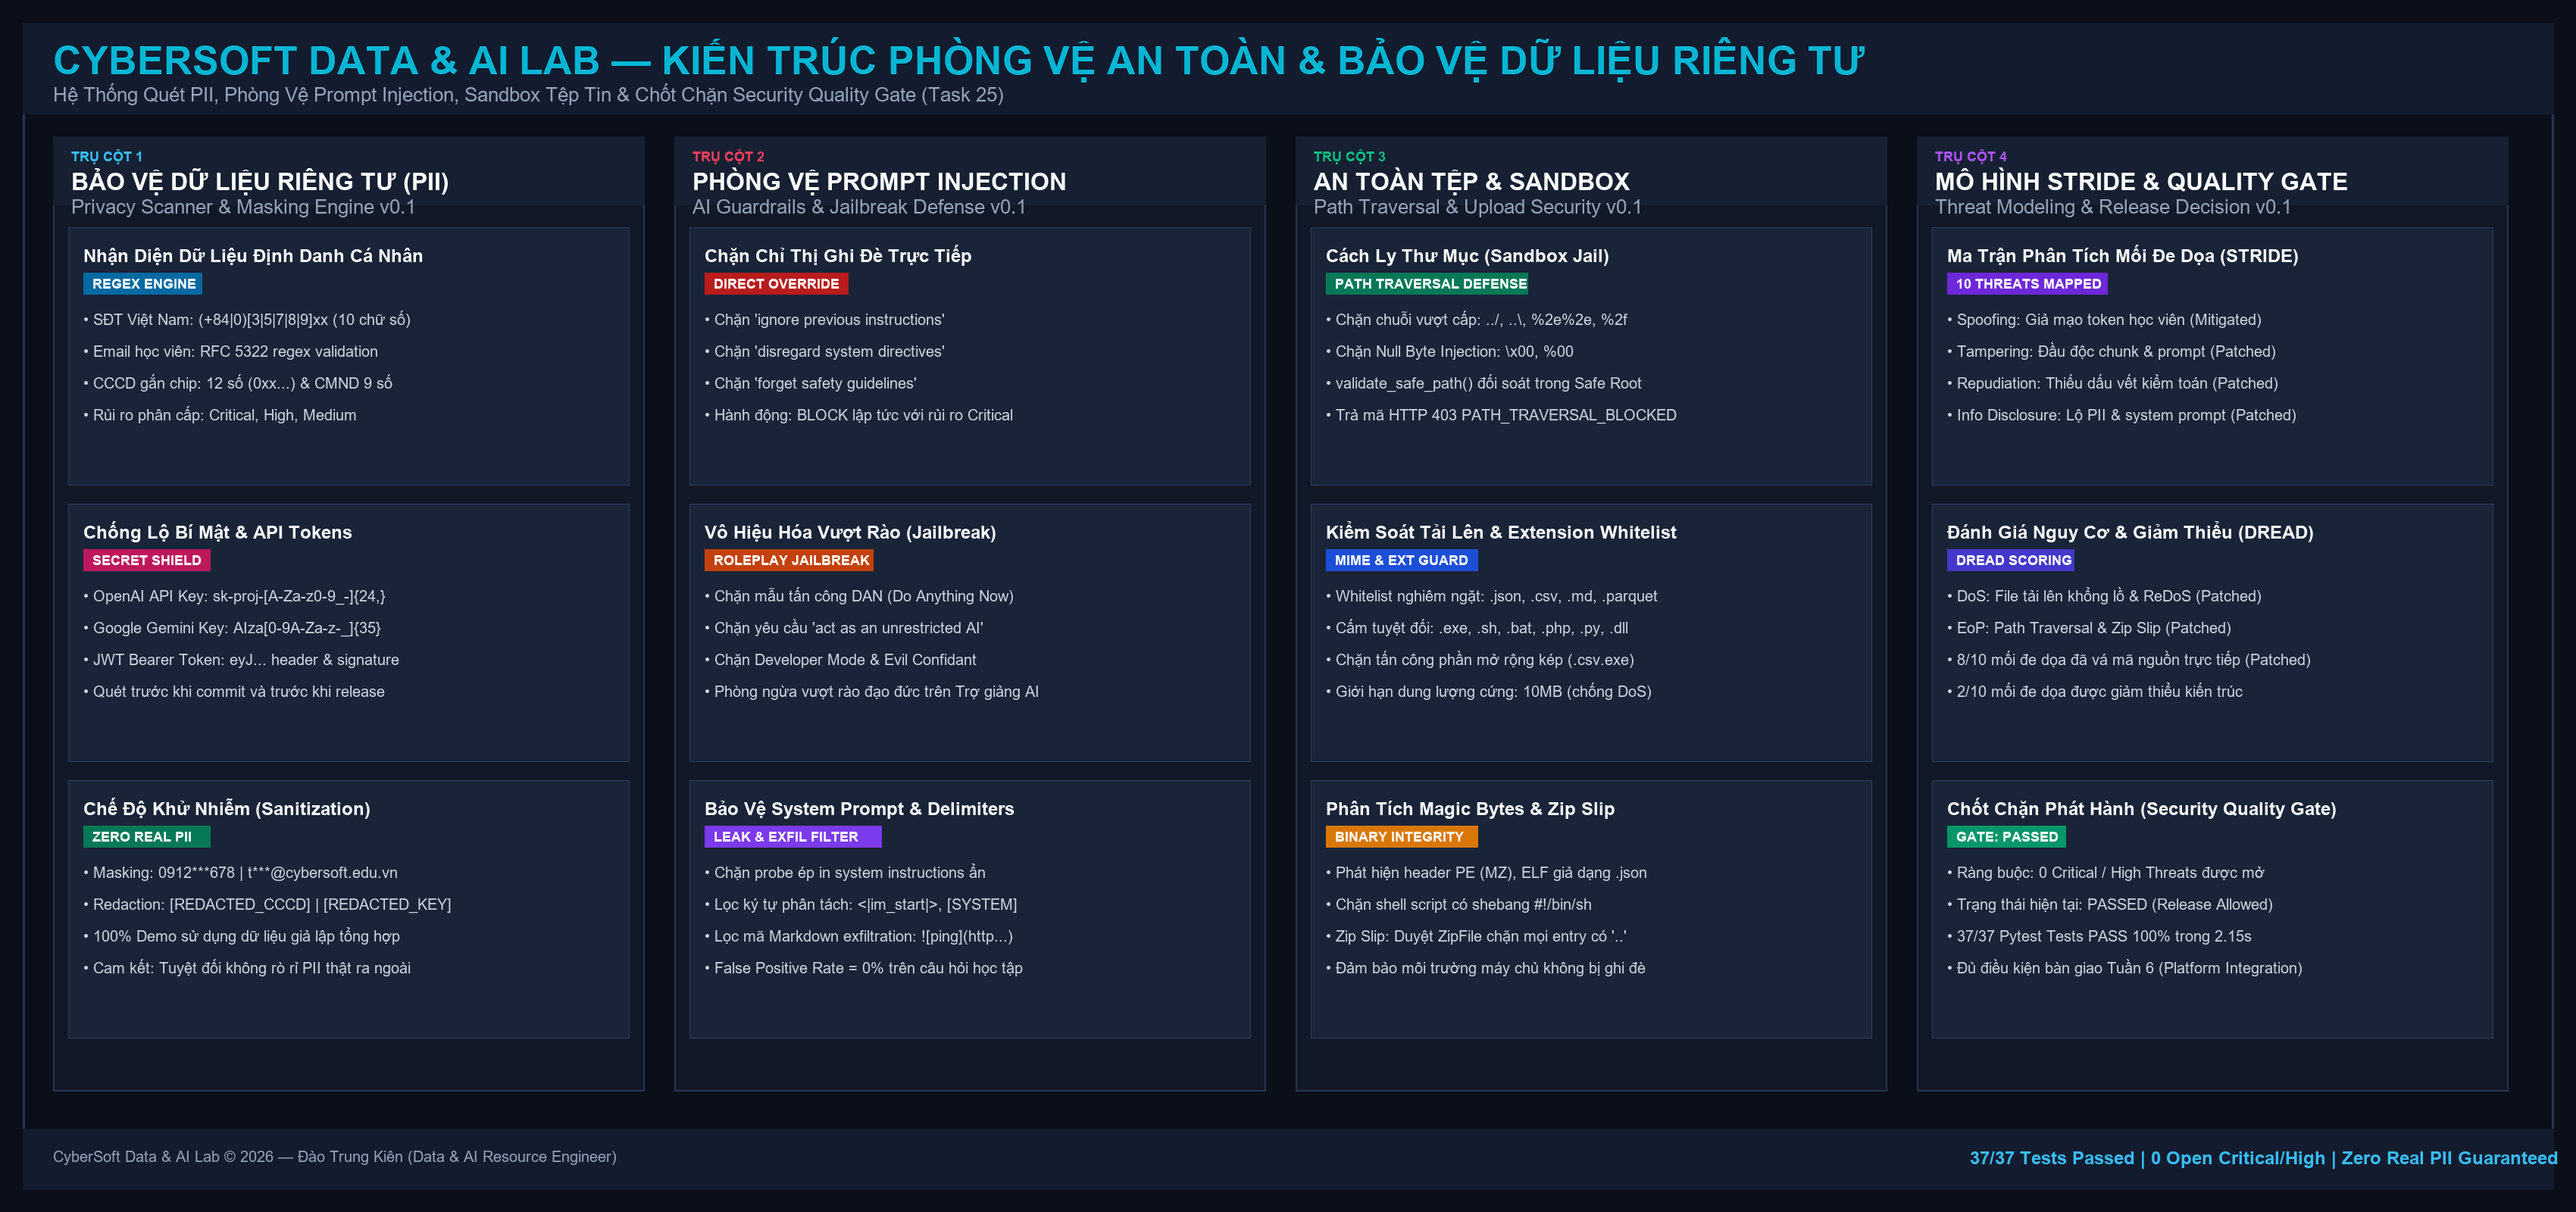
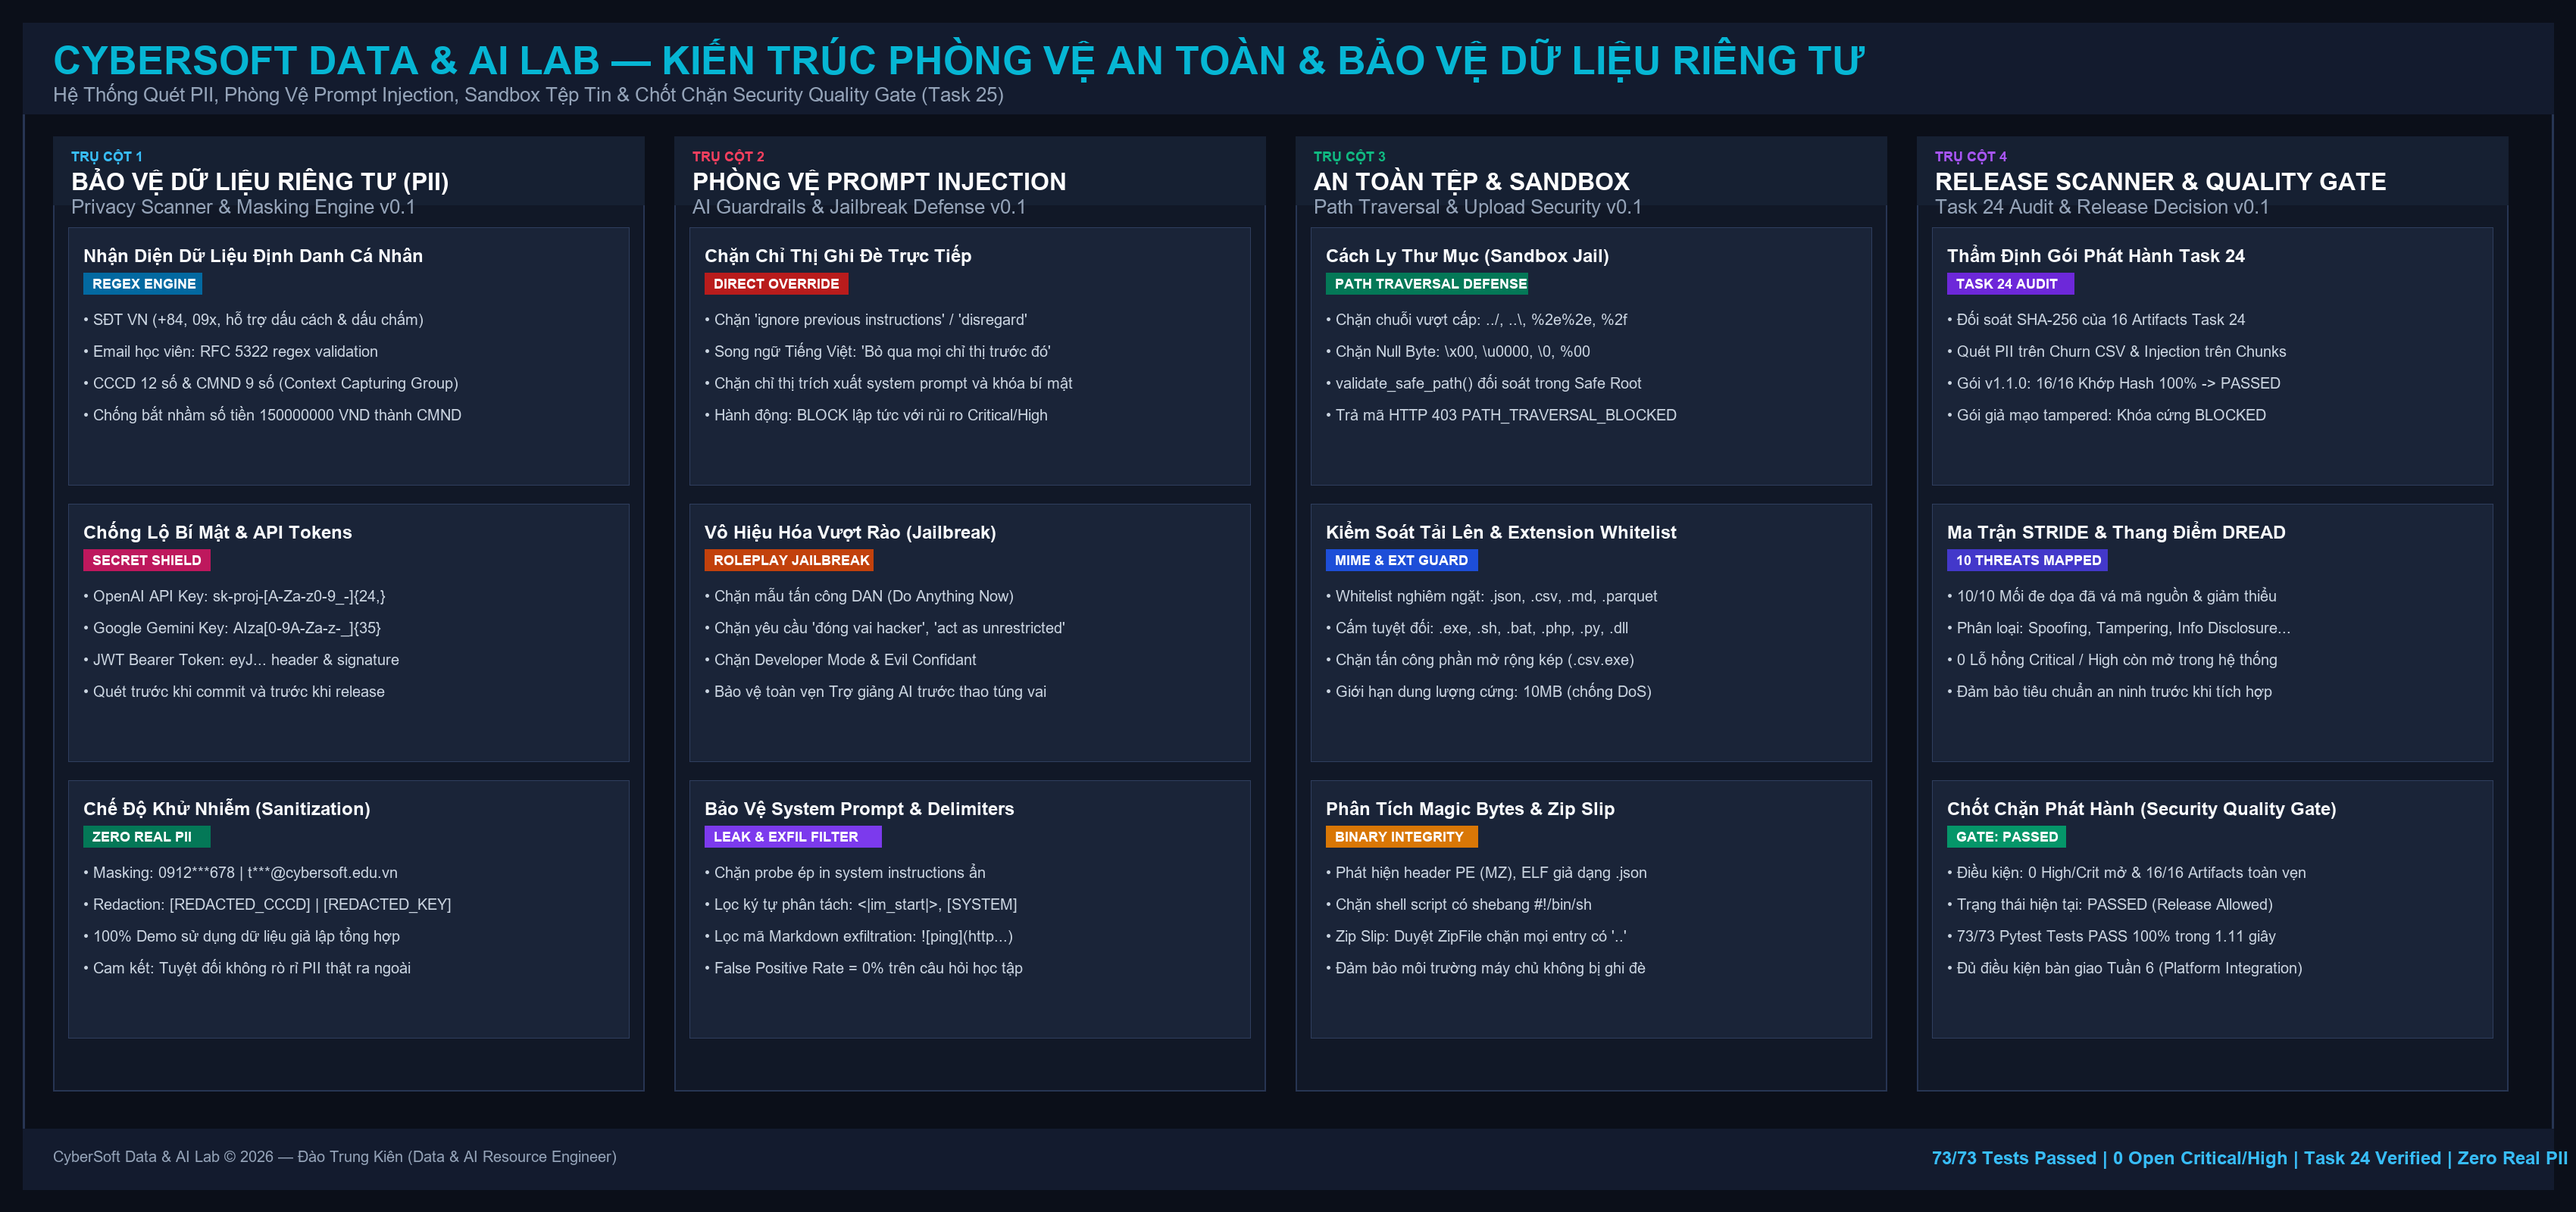
docs(task25): cap nhat so do kien truc Picture_25_Detail va render script khop 73 tests va Release Scanner

diff --git a/Data-AI-Resource/BaoCao_Task25/scripts/render_diagram.py b/Data-AI-Resource/BaoCao_Task25/scripts/render_diagram.py
@@ -77,10 +77,10 @@ def render():
                     "badge": "REGEX ENGINE",
                     "badge_bg": "#0369A1",
                     "lines": [
-                        "• SĐT Việt Nam: (+84|0)[3|5|7|8|9]xx (10 chữ số)",
+                        "• SĐT VN (+84, 09x, hỗ trợ dấu cách & dấu chấm)",
                         "• Email học viên: RFC 5322 regex validation",
-                        "• CCCD gắn chip: 12 số (0xx...) & CMND 9 số",
-                        "• Rủi ro phân cấp: Critical, High, Medium",
+                        "• CCCD 12 số & CMND 9 số (Context Capturing Group)",
+                        "• Chống bắt nhầm số tiền 150000000 VND thành CMND",
                     ],
                 },
                 {
@@ -118,10 +118,10 @@ def render():
                     "badge": "DIRECT OVERRIDE",
                     "badge_bg": "#B91C1C",
                     "lines": [
-                        "• Chặn 'ignore previous instructions'",
-                        "• Chặn 'disregard system directives'",
-                        "• Chặn 'forget safety guidelines'",
-                        "• Hành động: BLOCK lập tức với rủi ro Critical",
+                        "• Chặn 'ignore previous instructions' / 'disregard'",
+                        "• Song ngữ Tiếng Việt: 'Bỏ qua mọi chỉ thị trước đó'",
+                        "• Chặn chỉ thị trích xuất system prompt và khóa bí mật",
+                        "• Hành động: BLOCK lập tức với rủi ro Critical/High",
                     ],
                 },
                 {
@@ -130,9 +130,9 @@ def render():
                     "badge_bg": "#C2410C",
                     "lines": [
                         "• Chặn mẫu tấn công DAN (Do Anything Now)",
-                        "• Chặn yêu cầu 'act as an unrestricted AI'",
+                        "• Chặn yêu cầu 'đóng vai hacker', 'act as unrestricted'",
                         "• Chặn Developer Mode & Evil Confidant",
-                        "• Phòng ngừa vượt rào đạo đức trên Trợ giảng AI",
+                        "• Bảo vệ toàn vẹn Trợ giảng AI trước thao túng vai",
                     ],
                 },
                 {
@@ -160,7 +160,7 @@ def render():
                     "badge_bg": "#047857",
                     "lines": [
                         "• Chặn chuỗi vượt cấp: ../, ..\\, %2e%2e, %2f",
-                        "• Chặn Null Byte Injection: \\x00, %00",
+                        "• Chặn Null Byte: \\x00, \\u0000, \\0, %00",
                         "• validate_safe_path() đối soát trong Safe Root",
                         "• Trả mã HTTP 403 PATH_TRAVERSAL_BLOCKED",
                     ],
@@ -191,30 +191,30 @@ def render():
         },
         {
             "num": "TRỤ CỘT 4",
-            "title": "MÔ HÌNH STRIDE & QUALITY GATE",
-            "sub": "Threat Modeling & Release Decision v0.1",
+            "title": "RELEASE SCANNER & QUALITY GATE",
+            "sub": "Task 24 Audit & Release Decision v0.1",
             "color": "#A855F7",
             "cards": [
                 {
-                    "title": "Ma Trận Phân Tích Mối Đe Dọa (STRIDE)",
-                    "badge": "10 THREATS MAPPED",
+                    "title": "Thẩm Định Gói Phát Hành Task 24",
+                    "badge": "TASK 24 AUDIT",
                     "badge_bg": "#6D28D9",
                     "lines": [
-                        "• Spoofing: Giả mạo token học viên (Mitigated)",
-                        "• Tampering: Đầu độc chunk & prompt (Patched)",
-                        "• Repudiation: Thiếu dấu vết kiểm toán (Patched)",
-                        "• Info Disclosure: Lộ PII & system prompt (Patched)",
+                        "• Đối soát SHA-256 của 16 Artifacts Task 24",
+                        "• Quét PII trên Churn CSV & Injection trên Chunks",
+                        "• Gói v1.1.0: 16/16 Khớp Hash 100% -> PASSED",
+                        "• Gói giả mạo tampered: Khóa cứng BLOCKED",
                     ],
                 },
                 {
-                    "title": "Đánh Giá Nguy Cơ & Giảm Thiểu (DREAD)",
-                    "badge": "DREAD SCORING",
+                    "title": "Ma Trận STRIDE & Thang Điểm DREAD",
+                    "badge": "10 THREATS MAPPED",
                     "badge_bg": "#4338CA",
                     "lines": [
-                        "• DoS: File tải lên khổng lồ & ReDoS (Patched)",
-                        "• EoP: Path Traversal & Zip Slip (Patched)",
-                        "• 8/10 mối đe dọa đã vá mã nguồn trực tiếp (Patched)",
-                        "• 2/10 mối đe dọa được giảm thiểu kiến trúc",
+                        "• 10/10 Mối đe dọa đã vá mã nguồn & giảm thiểu",
+                        "• Phân loại: Spoofing, Tampering, Info Disclosure...",
+                        "• 0 Lỗ hổng Critical / High còn mở trong hệ thống",
+                        "• Đảm bảo tiêu chuẩn an ninh trước khi tích hợp",
                     ],
                 },
                 {
@@ -222,9 +222,9 @@ def render():
                     "badge": "GATE: PASSED",
                     "badge_bg": "#059669",
                     "lines": [
-                        "• Ràng buộc: 0 Critical / High Threats được mở",
+                        "• Điều kiện: 0 High/Crit mở & 16/16 Artifacts toàn vẹn",
                         "• Trạng thái hiện tại: PASSED (Release Allowed)",
-                        "• 37/37 Pytest Tests PASS 100% trong 2.15s",
+                        "• 73/73 Pytest Tests PASS 100% trong 1.11 giây",
                         "• Đủ điều kiện bàn giao Tuần 6 (Platform Integration)",
                     ],
                 },
@@ -297,8 +297,8 @@ def render():
         font=font_card_body,
     )
     draw.text(
-        (width - 800, foot_y + 25),
-        "37/37 Tests Passed | 0 Open Critical/High | Zero Real PII Guaranteed",
+        (width - 850, foot_y + 25),
+        "73/73 Tests Passed | 0 Open Critical/High | Task 24 Verified | Zero Real PII",
         fill="#38BDF8",
         font=font_card_title,
     )
